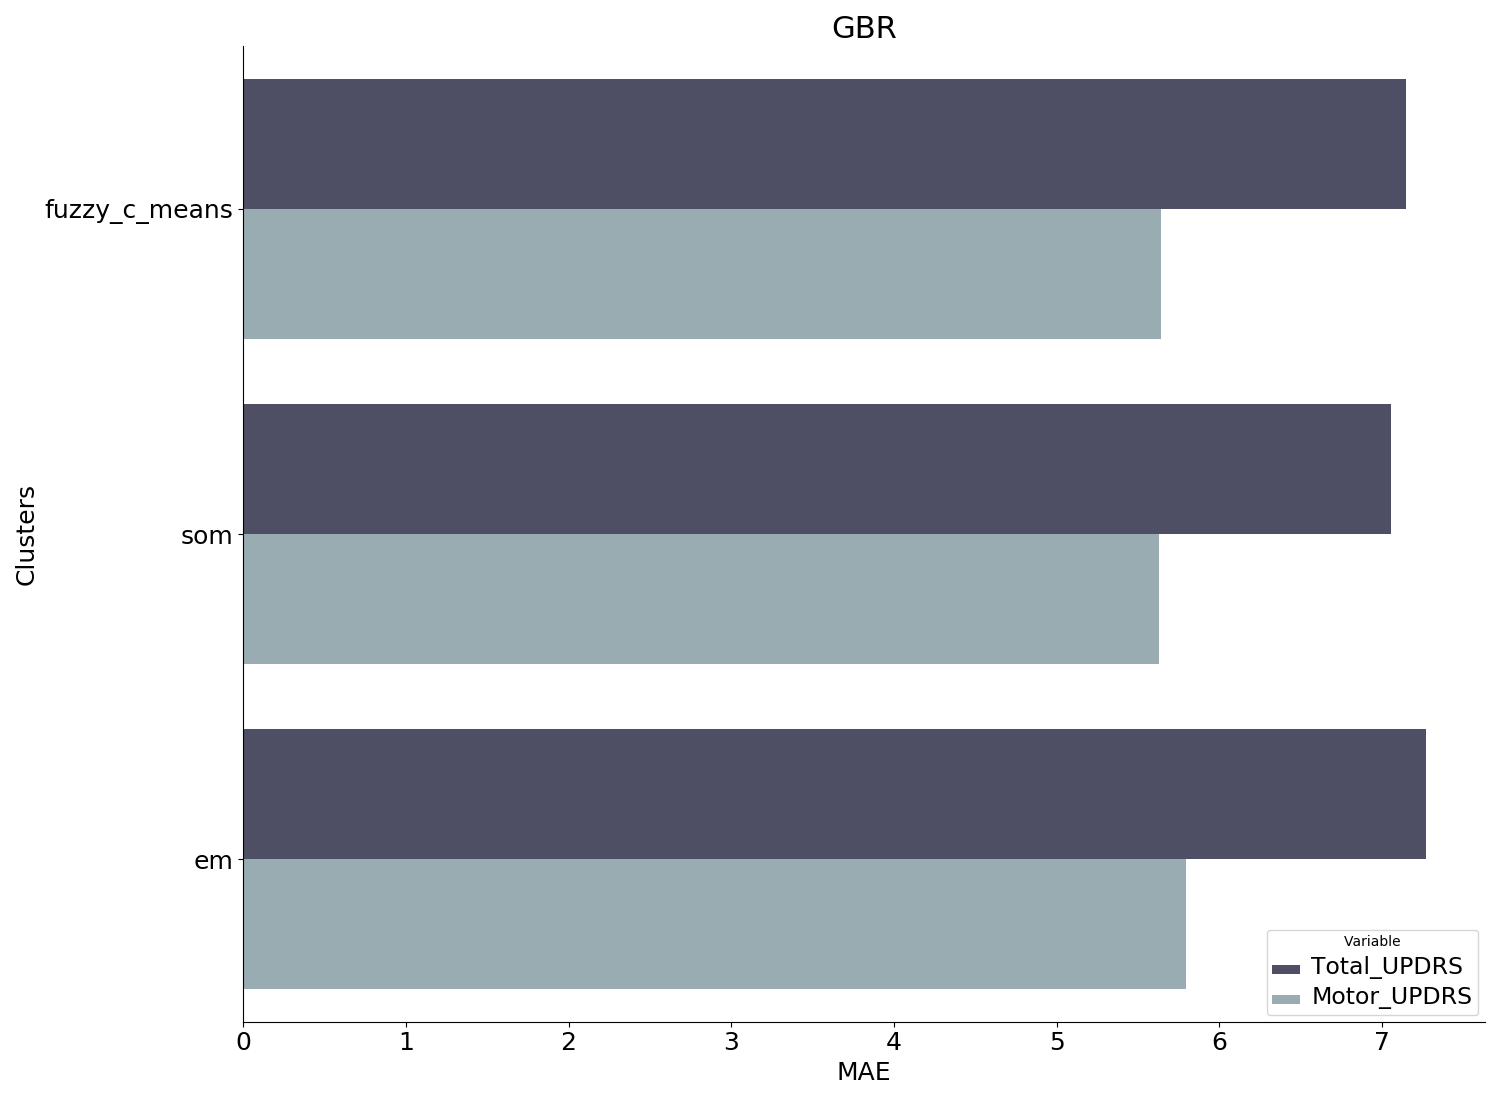
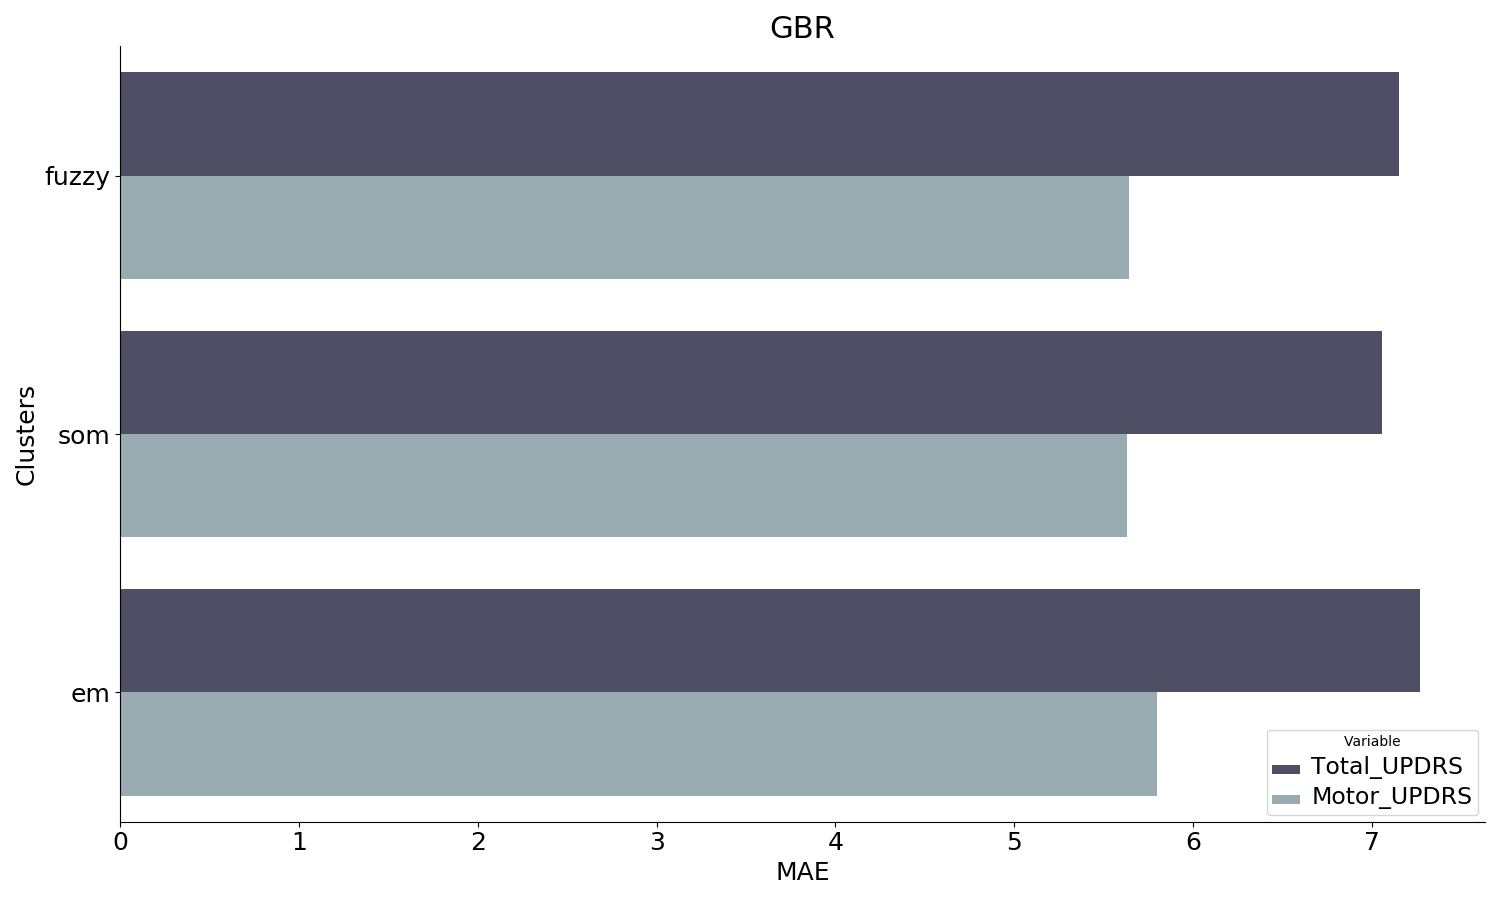
commit final plots

diff --git a/utils/experiment_one_plot.py b/utils/experiment_one_plot.py
@@ -3,7 +3,7 @@ Functions regarding plotting ... remeber to develop scripts to automatically sav
 
 """
 
-import seaborn
+import seaborn as sn
 import matplotlib.pyplot as plt
 from statistics import mean
 import pandas
@@ -37,7 +37,7 @@ total_GBR, motor_GBR = readValues("../results/outputs/GBR/MAE-final-GBR-KFold.cs
 total_MLP, motor_MLP = readValues("../results/outputs/MLP/MAE-final-MLP-KFold.csv")
 total_RFR, motor_RFR = readValues("../results/outputs/RFR/MAE-final-RFR-KFold.csv")
 total_SVR, motor_SVR = readValues("../results/outputs/SVR/MAE-final-SVR-KFold.csv")
-
+sn.set(style="whitegrid")
 df = pandas.DataFrame({
     'Models': ["GBR", "MLP", "RFR", "SVR"],
     'Total_UPDRS': [total_GBR[0], total_MLP[0], total_RFR[0], total_SVR[0]],
@@ -47,18 +47,18 @@ df = pandas.DataFrame({
 fig, ax1 = plt.subplots(figsize=(15, 11))
 tidy = df.melt(id_vars='Models').rename(columns=str.title)
 
-sn = seaborn.barplot(x='Models', y='Value', hue='Variable', data=tidy, ax=ax1, palette='bone')
-sn.axes.set_title("Total_UPDRS Model comparison", fontsize=22)
-sn.set_xlabel("Models", fontsize=18)
-sn.set_ylabel("MAE", fontsize=18)
-seaborn.despine(fig)
+figure = sn.barplot(x='Models', y='Value', hue='Variable', ci="sd", data=tidy, ax=ax1, palette='bone')
+figure.axes.set_title("Total_UPDRS Model comparison", fontsize=22)
+figure.set_xlabel("Models", fontsize=18)
+figure.set_ylabel("MAE", fontsize=18)
+sn.despine(fig)
 
 plt.setp(ax1.get_legend().get_texts(), fontsize='17')
 plt.xticks(fontsize=18)
 plt.yticks(fontsize=18)
 
-# plt.savefig("../media/total_UPDRS_Model_comparison.png")
-# plt.show()
+plt.savefig("../media/total_UPDRS_Model_comparison.png")
+plt.show()
 
 df = pandas.DataFrame({
     'Models': ["GBR", "MLP", "RFR", "SVR"],
@@ -70,29 +70,20 @@ df = pandas.DataFrame({
 
 fig, ax1 = plt.subplots(figsize=(15, 11))
 tidy = df.melt(id_vars='Models').rename(columns=str.title)
-
-sn = seaborn.barplot(x='Models', y='Value', hue='Variable', data=tidy, ax=ax1, palette='bone')
-sn.axes.set_title("Motor_UPDRS Model comparison", fontsize=22)
-sn.set_xlabel("Models", fontsize=18)
-sn.set_ylabel("MAE", fontsize=18)
-seaborn.despine(fig)
+sn.set(style="whitegrid")
+figure = sn.barplot(x='Models', y='Value', hue='Variable', ci="sd", data=tidy, ax=ax1, palette='bone')
+figure.axes.set_title("Motor_UPDRS Model comparison", fontsize=22)
+figure.set_xlabel("Models", fontsize=18)
+figure.set_ylabel("MAE", fontsize=18)
+sn.despine(fig)
 
 plt.setp(ax1.get_legend().get_texts(), fontsize='17')
 plt.xticks(fontsize=18)
 plt.yticks(fontsize=18)
 
-
-# plt.savefig("../media/motor_UPDRS_Model_comparison.png")
-# plt.show()
-
-###################################################
-
-def readFiles(paths):
-    for path in paths:
-        pandas.read_csv("vfghbjnk")
-
-    return "yes"
+plt.savefig("../media/motor_UPDRS_Model_comparison.png")
+plt.show()
 
 
-svr = pandas.read_csv("../results/outputs/SVR/MAE-diff-components.csv", usecols=['Total-Test', 'Motor-Test'])
-print(svr.get)
+
+

diff --git a/utils/experiment_three_plot.py b/utils/experiment_three_plot.py
@@ -37,9 +37,9 @@ def readValues(path):
 
 def makePlot(total, motor, model):
     df = pandas.DataFrame(
-        {'Clusters': ['fuzzy_c_means', 'som', 'em'], 'Total_UPDRS': total,
+        {'Clusters': ['fuzzy', 'som', 'em'], 'Total_UPDRS': total,
          'Motor_UPDRS': motor})
-    fig, ax1 = plt.subplots(figsize=(15, 11))
+    fig, ax1 = plt.subplots(figsize=(15, 9))
     tidy = df.melt(id_vars='Clusters').rename(columns=str.title)
 
     sn = sb.barplot(x='Value', y='Clusters', hue='Variable', data=tidy, ax=ax1, palette='bone')
@@ -69,3 +69,5 @@ makePlot(GBR_values[0], GBR_values[1], "GBR")
 makePlot(MLP_values[0], MLP_values[1], "MLP")
 makePlot(RFR_values[0], RFR_values[1], "RFR")
 makePlot(SVR_values[0], SVR_values[1], "SVR")
+
+
